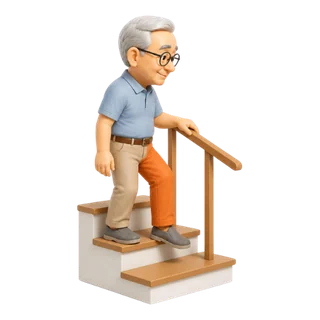
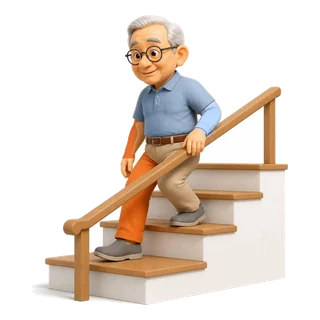
v43: 換上樓梯大圖、躺向無力側大圖、下樓梯小圖示（修正姿勢錯誤）
Claude-Session: https://claude.ai/code/session_01JY5CABcHjQtKa2tViAnZSV

diff --git a/sw.js b/sw.js
@@ -1,5 +1,5 @@
 // 腦中風 PAC 衛教：離線快取。每次更新內容，請把 VERSION 改成新的字串。
-const VERSION = "v42-1151018";
+const VERSION = "v43-1151018";
 const CACHE = "pac-edu-" + VERSION;
 const ASSETS = ["./", "index.html", "manifest.webmanifest", "icons/icon-192.png", "icons/icon-512.png", "icons/icon-maskable-512.png", "icons/apple-touch-icon.png", "img/ankle.webp", "img/banner.webp", "img/bathroom.webp", "img/bedside.webp", "img/bp.webp", "img/bridge.webp", "img/call119.webp", "img/cane.webp", "img/cards.webp", "img/caregiver.webp", "img/emblem.webp", "img/feeding.webp", "img/heelraise.webp", "img/home.webp", "img/ngtube.webp", "img/nightpath.webp", "img/posBack.webp", "img/posSit.webp", "img/posStrong.webp", "img/posWeak.webp", "img/sitstand.webp", "img/stairs.webp", "img/stick.webp", "img/team.webp", "img/towel.webp", "img/turning.webp", "img/walker.webp", "img/wheelchair.webp", "img/steps/sitstand-1.webp", "img/steps/sitstand-2.webp", "img/steps/sitstand-3.webp", "img/steps/sitstand-4.webp", "img/steps/sitstand-5.webp", "fonts/huninn-sub.woff2", "fonts/mitr-thai-400.woff2", "fonts/mitr-thai-600.woff2", "fonts/nunito-latin-400.woff2", "fonts/nunito-latin-800.woff2", "fonts/nunito-vietnamese-400.woff2", "fonts/nunito-vietnamese-800.woff2", "pics/i-aFwd.webp", "pics/i-aSide.webp", "pics/i-aUp.webp", "pics/i-afo.webp", "pics/i-ankle.webp", "pics/i-armNo.webp", "pics/i-armOk.webp", "pics/i-armraise.webp", "pics/i-arms.webp", "pics/i-bal1.webp", "pics/i-bal3.webp", "pics/i-beancup.webp", "pics/i-bed.webp", "pics/i-bed30.webp", "pics/i-bell.webp", "pics/i-bowl.webp", "pics/i-bp.webp", "pics/i-brainL.webp", "pics/i-brainR.webp", "pics/i-bridge.webp", "pics/i-brush.webp", "pics/i-cal7.webp", "pics/i-calcheck.webp", "pics/i-cane.webp", "pics/i-caneNo.webp", "pics/i-caneOk.webp", "pics/i-card.webp", "pics/i-cheek.webp", "pics/i-cheekPuff.webp", "pics/i-clock.webp", "pics/i-clothespin.webp", "pics/i-commode.webp", "pics/i-counter.webp", "pics/i-cup.webp", "pics/i-dryswallow.webp", "pics/i-eatNo.webp", "pics/i-eatOk.webp", "pics/i-evalEnd.webp", "pics/i-evalMid.webp", "pics/i-evalStart.webp", "pics/i-face.webp", "pics/i-footDrop.webp", "pics/i-footNo.webp", "pics/i-footUp.webp", "pics/i-glass.webp", "pics/i-hGrasp.webp", "pics/i-hReach.webp", "pics/i-hRelease.webp", "pics/i-hWrist.webp", "pics/i-handNo.webp", "pics/i-heelraise.webp", "pics/i-hipturn.webp", "pics/i-hospital.webp", "pics/i-house.webp", "pics/i-kneeNo.webp", "pics/i-kneelift.webp", "pics/i-lamp.webp", "pics/i-leaf.webp", "pics/i-lobeF.webp", "pics/i-lobeO.webp", "pics/i-lobeP.webp", "pics/i-lobeT.webp", "pics/i-lunge.webp", "pics/i-mat.webp", "pics/i-mirror.webp", "pics/i-mmAssist.webp", "pics/i-mmThink.webp", "pics/i-mmTry.webp", "pics/i-naming.webp", "pics/i-nosmoke.webp", "pics/i-ot.webp", "pics/i-path.webp", "pics/i-pegBoard.webp", "pics/i-phone.webp", "pics/i-pills.webp", "pics/i-posBack.webp", "pics/i-posSit.webp", "pics/i-posStrong.webp", "pics/i-posWeak.webp", "pics/i-pt.webp", "pics/i-rail.webp", "pics/i-salt.webp", "pics/i-shift.webp", "pics/i-shower.webp", "pics/i-sitEat.webp", "pics/i-sitstand.webp", "pics/i-speak.webp", "pics/i-st.webp", "pics/i-stairsDown.webp", "pics/i-stairsUp.webp", "pics/i-step1.webp", "pics/i-step2.webp", "pics/i-step3.webp", "pics/i-stickBar.webp", "pics/i-stretchNo.webp", "pics/i-stretchOk.webp", "pics/i-sun.webp", "pics/i-sunmoon.webp", "pics/i-talk.webp", "pics/i-tape.webp", "pics/i-tl1.webp", "pics/i-tl2.webp", "pics/i-tl3.webp", "pics/i-tl4.webp", "pics/i-tongueMove.webp", "pics/i-towelwipe.webp", "pics/i-turn1.webp", "pics/i-turn2.webp", "pics/i-turn3.webp", "pics/i-turn4.webp", "pics/i-visit.webp", "pics/i-walk.webp", "pics/i-walker.webp", "pics/i-walkerFig.webp", "pics/i-wheelchair.webp"];
 self.addEventListener("install", e => {

diff --git a/index.html b/index.html
@@ -9,7 +9,7 @@
 <meta property="og:type" content="website">
 <meta property="og:title" content="腦中風 PAC 衛教｜三軍總醫院松山分院">
 <meta property="og:description" content="給病人、家屬與看護的急性後期照護衛教，五種語言、可朗讀、可離線使用。">
-<meta property="og:image" content="https://huiting01682-png.github.io/index/img/og.jpg?v=v42-1151018">
+<meta property="og:image" content="https://huiting01682-png.github.io/index/img/og.jpg?v=v43-1151018">
 <meta property="og:image:width" content="1200"><meta property="og:image:height" content="630">
 <meta property="og:url" content="https://huiting01682-png.github.io/index/">
 <meta name="twitter:card" content="summary_large_image">
